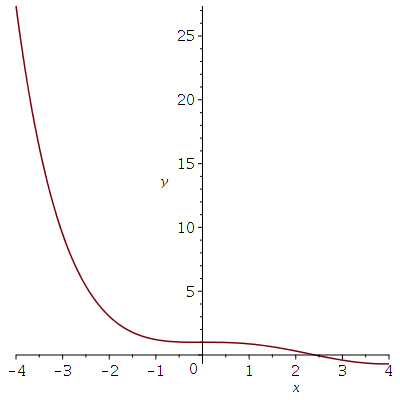
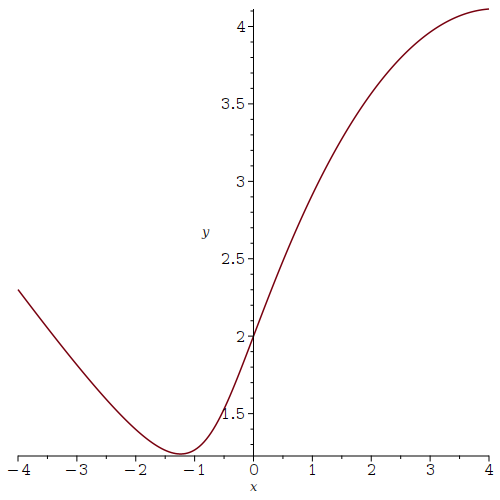
Update and expand the content for Maple

diff --git a/math_stat/maple/ODE_O1_en.html b/math_stat/maple/ODE_O1_en.html
@@ -231,7 +231,7 @@ to <font class="matlab">eq4</font> with the initial condition
 <font class="matlab">y(0)=2</font>.</p>
 
 <pre class="matlab">
-> <font class="matlab">yp := dsolve({ODE,y(0)=1},y(x),type=numeric);</font>
+> <font class="matlab">yp := dsolve({eq4,y(0)=2},y(x),type=numeric);</font>
 </pre>
 
 \[
@@ -244,7 +244,7 @@ error of order 5.  We use the <em>Maple</em> function
 <font class="matlab">odeplot</font> to graph this solution.</p>
 
 <pre class="matlab">
-> <font class="matlab">with(plots); odeplot(yp,-4..4);</font>
+> <font class="matlab">with(plots): odeplot(yp,-4..4);</font>
 </pre>
 
 <div class="center">
@@ -266,8 +266,8 @@ each one of them, we draw an arrow of slope $f(x,y)$ centred at
 this points. Maple has a nice function to generate the slope field
 of an ODE.</p>
 
-<p>Let's consider our troublesome homogeneous ODE of order one,
-<font class="matlab">eq4</font>.
+<p>Consider our troublesome homogeneous ODE of order one,
+<font class="matlab">eq4</font>.  Its slope field is drawn below.</p>
 
 <pre class="matlab">
 > <font class="matlab">with(DEtools):  DEplot(eq4,y(x),x=-5..5,y=-5..5, arrows=small);</font>
@@ -278,8 +278,8 @@ of an ODE.</p>
        alt="Slope field of the ODE eq4">
 </div>
 
-<p>We can also draw some solutions with initial conditions on the
-slope field.</p>
+<p>We can also draw on the slope field some solutions with initial
+conditions.</p>
 
 <pre class="matlab">
 > <font class="matlab">DEplot(eq4,y(x),x=-5..5,y=-5..5, [[y(0)=1],[y(0)=-2],[y(0)=2]],linecolor=[red,blue,green], arrows=small);</font>
@@ -294,6 +294,54 @@ slope field.</p>
 error tolerance, ... for numerical integration and drawing slope
 fields.</p>
 
+<p><em>Remark</em>: Consider the ordinary defferential equation</p>
+
+<pre class="matlab">
+> <font class="matlab"> eq3 := diff(y(x),x)+x^2*y(x)=x^2;</font>
+</pre>
+
+\[
+eq3 := \frac{\text{d}}{\text{d} x} \,y(x) + x^{2}\,y(x)=x^{2}
+\]
+
+<p>We can draw its slope field and some solutions with given initial
+conditions.</p>
+
+<pre class="matlab">
+> <font class="matlab"> DEplot(eq3,y(x),x=-10..10,y=-10..10,[[y(0)=1],[y(0)=-2],[y(0)=2]],linecolor=[red,blue,green],method=classical[foreuler],stepsize=.1);
+</font>
+</pre>
+
+<div class="center">
+  <img src="Maple_ode_11.png" style="width: 300px"
+       alt="Slope field of the ODE eq3 with the graph of three particular solutions associated to y(0)=1, y(0)=-2 and y(0)=2">
+</div>
+
+<p> There seems to be something wrong with the graphs of the solutions
+for $y(0)=-2$ and $y(0)=2$ when $x$ is greater than $8$.  The solutions are not
+tangent to the slope field as the should be. </p>
+
+<p> This is the danger with numerical integration.  To get logical and
+more accurate results, we may have to adjust the step size or use an
+appropriate numerical method.  It is therefore important to have a
+theoretical and qualitative understanding of the differential equation before
+diving into enormous computations.  The problem here comes from the
+Euler method which is not a very accurate method of integration and
+the large step size.  If we use the default method of integration
+(i.e. a Runge-Kutta-Fehlberg method), we get. </p>
+
+<pre class="matlab">
+> <font class="matlab"> DEplot(eq3,y(x),x=-5..5,y=-5..5,[[y(0)=1],[y(0)=-2],[y(0)=2]], linecolor=[red,blue,green]);
+</font>
+</pre>
+
+<div class="center">
+  <img src="Maple_ode_12.png" style="width: 300px"
+       alt="Slope field of the ODE eq3 with the graph of three particular solutions associated to y(0)=1, y(0)=-2 and y(0)=2">
+</div>
+
+<p>This is much better.</p>
+  
 <br>
 <hr>
 <br>

diff --git a/math_stat/maple/ODE_O2_const_coeff_en.html b/math_stat/maple/ODE_O2_const_coeff_en.html
@@ -90,7 +90,7 @@ y(x) = \_C1 e^x + \_C2 e^x x
 <p>Consider the second order non-homogeneous linear ODE</p>
 
 <pre class="matlab">
-> <font class="matlab">eq2 := diff(y(x),x$2)-2*diff(y(x),x)+y(x)=0 = exp(x);</font>
+> <font class="matlab">eq2 := diff(y(x),x$2)-2*diff(y(x),x)+y(x) = exp(x);</font>
 </pre>
 
 \[
@@ -127,29 +127,36 @@ we compute the determinant of the matrix</p>
 \begin{bmatrix} y_1(x) & y_2(x) \\ y_1'(x) & y_2'(x) \end{bmatrix}
 \]
 <p>This matrix is called the <em>Wronskian</em>.  If the determinant
-is different of zero (at one point), then the two solutions are
-linearly independent.  If the determinant is zero (at one point),
+is different than zero at one point, then the two solutions are
+linearly independent.  If the determinant is zero at one point,
 then they are dependent.</p>
 
-<p><em>WARNING</em>: In general, you cannot conclude that two
-functions are linearly independent because their Wronskian is non-zero
-at one point.  You have to make sure that it is non-zero at
-every point of the domain before being able to claim that they are
-linearly independent.</p>
+<p><em>WARNING</em>: If the determinant of the Wronskian of two
+solutions of an ordinary differential equation of order two with
+constant coefficients is non-zero at one point then it is
+non-zero at all points in the domain of the two solutions.
+Likewise, if the determinant of the Wronskian of two solutions is
+zero at one point than it is zero at all points in the domain of the
+two solutions.  This is not true for two arbitrary functions.
+You cannot conclude that two arbitrary functions are linearly
+independent because the determinant of their Wronskian is non-zero at
+one point.  You have to make sure that it is non-zero at every point
+of their domain before being able to claim that they are linearly
+independent.</p>
 
 <p>Let's check that the two solutions of the homogeneous ODE are
 linearly independent.</p>
 
 <pre class="matlab">
-> <font class="matlab">with(VectorCalculus): with(LinearAlgebra): Determinant(Wronskian([e^x, x*e^x], x))</font>
+> <font class="matlab">with(VectorCalculus): with(LinearAlgebra): Determinant(Wronskian([exp(x), x*exp(x)], x))</font>
 </pre>
 
 \[
 (e^x)^2
 \]
 
-<p>Since $e^{2x}$ is different of $0$ at any point, the two solutions
-are linearly independent.</p>
+<p>Since $e^{2x}$ is different than $0$ at one point, and so at all
+points, the two solutions are linearly independent.</p>
 
 <p><em>Example</em>: Consider the ODE
 
@@ -376,7 +383,7 @@ P := \arctan\left(\frac{2 \theta}{\theta^2 - 1}\right)
 
 <pre class="matlab">
 > <font class="matlab">plot1:=plot(A,theta=0..2*Pi,color=red):</font>
-> <font class="matlab">plot2:=plot(P,yheta=0..2*Pi,color=blue,discont=true):</font>
+> <font class="matlab">plot2:=plot(P,theta=0..2*Pi,color=blue,discont=true):</font>
 > <font class="matlab">plots[display](plot1,plot2);</font>
 </pre>
 

diff --git a/math_stat/maple/ODE_O2_var_coeff_en.html b/math_stat/maple/ODE_O2_var_coeff_en.html
@@ -209,7 +209,7 @@ series are needed to deduce this indicial equation. It has two
 distinct roots when $p \neq 0$.  The general solution is </p>
 
 <pre class="matlab">
-> <font class="matlab">dsolve(Bequ,y(x));</font>
+> <font class="matlab">dsolve(eq5,y(x));</font>
 </pre>
 
 \[
@@ -221,7 +221,7 @@ the first kind of order $p$, and
 <font class="matlab">BesselY(p,x)</font> is the Bessel function of the
 second kind of order $p$.  The Bessel functions of the first kind can
 be expressed as infinite series around the origin but the Bessel
-functions of the second kind can not (the origin is a singularity).
+functions of the second kind cannot (the origin is a singularity).
 The Bessel function of the first king of order
 <font class="matlab">0</font> has the following series expansion
 near the origin.
@@ -238,8 +238,9 @@ near the origin.
 and $1$ are</p>
 
 <pre class="matlab">
-> <font class="matlab"> J0 := plot(BesselJ(0,x),x=0..10, color="red");</font>
-> <font class="matlab"> J1 := plot(BesselJ(1,x),x=0..10, color="blue");</font>
+> <font class="matlab"> with(plots):</font>
+> <font class="matlab"> J0 := plot(BesselJ(0,x),x=0..10, color="red"):</font>
+> <font class="matlab"> J1 := plot(BesselJ(1,x),x=0..10, color="blue"):</font>
 > <font class="matlab"> display({J0,J1});</font>
 </pre>
 
@@ -256,8 +257,8 @@ $0$ at the origin.</p>
 and $1$ are</p>
 
 <pre class="matlab">
-> <font class="matlab"> Y0 := plot(BesselY(0,x),x=0.1..10, color="red");</font>
-> <font class="matlab"> Y1 := plot(BesselY(1,x),x=0.1..10, color="blue");</font>
+> <font class="matlab"> Y0 := plot(BesselY(0,x),x=0.1..10, color="red"):</font>
+> <font class="matlab"> Y1 := plot(BesselY(1,x),x=0.1..10, color="blue"):</font>
 > <font class="matlab"> display({Y0,Y1});</font>
 </pre>
 

diff --git a/math_stat/maple/lin_alg_en.html b/math_stat/maple/lin_alg_en.html
@@ -121,7 +121,7 @@ respects the rules about dimensions.</p>
 and <font class="matlab">v</font> is given by</p>
 
 <pre class="matlab">
-> <font class="matlab"> DotProduct(u,v); </font>;
+> <font class="matlab"> DotProduct(u,v); </font>
 </pre>
 
 \[ 16 \]
@@ -169,7 +169,7 @@ may have their own function to create them.  Here are some
 examples.</p>
 
 <pre class="matlab">
-> <font class="matlab">Id : = IdentityMatrix(3);</font>
+> <font class="matlab">Id: = IdentityMatrix(3);</font>
 </pre>
 
 \[ \begin{bmatrix} 1 & 0 & 0 \\ 0 & 1 & 0 \\ 0 & 0 & 1 \end{bmatrix} \]
@@ -195,7 +195,7 @@ column. </p>
 > <font class="matlab">D := <<1| 4 > ,<3| 7>>;</font>
 </pre>
 
-\[ D := \begin{bmatrix} 1 & 4 \\ 3 & 7 \end{bmatrix}  \]
+\[ C := \begin{bmatrix} 1 & 4 \\ 3 & 7 \end{bmatrix}  \]
 
 <p>There are more sophisticated methods to create matrices.</p>
 
@@ -220,7 +220,7 @@ column. </p>
 \[ C := \begin{bmatrix} 1 & 4 \\ 3 & 7 \end{bmatrix} \]
 
 <pre class="matlab">
-> <font class="matlab">P, L, U := LUDecomposition(A); P L U ; </font>
+> <font class="matlab">P, L, U := LUDecomposition(A); P.L.U ; </font>
 </pre>
 
 \[
@@ -258,7 +258,7 @@ associated to the eigenvalue.</p>
 or vector. Consider the following function.</p>
 
 <pre class="matlab">
-> <font class="matlab">nf:= x-> x^3-x;</font>
+> <font class="matlab">mf:= x-> x^3-x;</font>
 </pre>
 
 \[  mf := x \mapsto x^3 - x \]

diff --git a/math_stat/maple/Maple_programs_en.html b/math_stat/maple/Maple_programs_en.html
@@ -91,7 +91,7 @@ x$, is $4/N$.</p>
 </pre>
 
 \[
-S := \frac{4 \left( \sum_{i=1}^N (f@x)(imN)\right)}{N}
+S := \frac{4 \left( \sum_{i=1}^N (f@x)(i,N)\right)}{N}
 \]
 
 <p>The values of the Riemann sums for $N=10, 20, 30$ and $40$ are</p>
@@ -144,10 +144,10 @@ for any intervals of integration and any number of subintervals.</p>
 <p>As expected</p>
   
 <pre class="matlab">
-> <font class="matlab">Riemann(3,7,40);</font>
+> <font class="matlab">RS(3,7,40);</font>
 </pre>
 \[
--73.61449115
+-73.61449124
 \]
 
 <p>The graph of $f(x)$ for $x \leq x \leq 7$ is given below.</p>

diff --git a/math_stat/maple/maple_en.html b/math_stat/maple/maple_en.html
@@ -58,7 +58,7 @@ main_title( MStext, "MMathSStat");
 is enough details to get you started with Maple in no time.  There
 is a vast library of functions that you may want to explore.  Use
 the <em>Help</em> menu in Maple for that.  In the text below, Maple
-code is highlighted text in blue.</p>
+codes are highlighted in blue.</p>
 
 <div style="clear: both;"></div>
 

diff --git a/utilities.js b/utilities.js
@@ -17,7 +17,7 @@ if ( index_loc_full >=0 )
 else
     loc = loc_full;
 if ( loc.search("/home/bdionne/") != -1 ) {
-    location_bd = "file:///home/bdionne/public_html/";
+    location_bd = "file:///home/bdionne/public_html/BenoitDionne.github.io/";
 }
 
 /* Location of almost all the images. */
